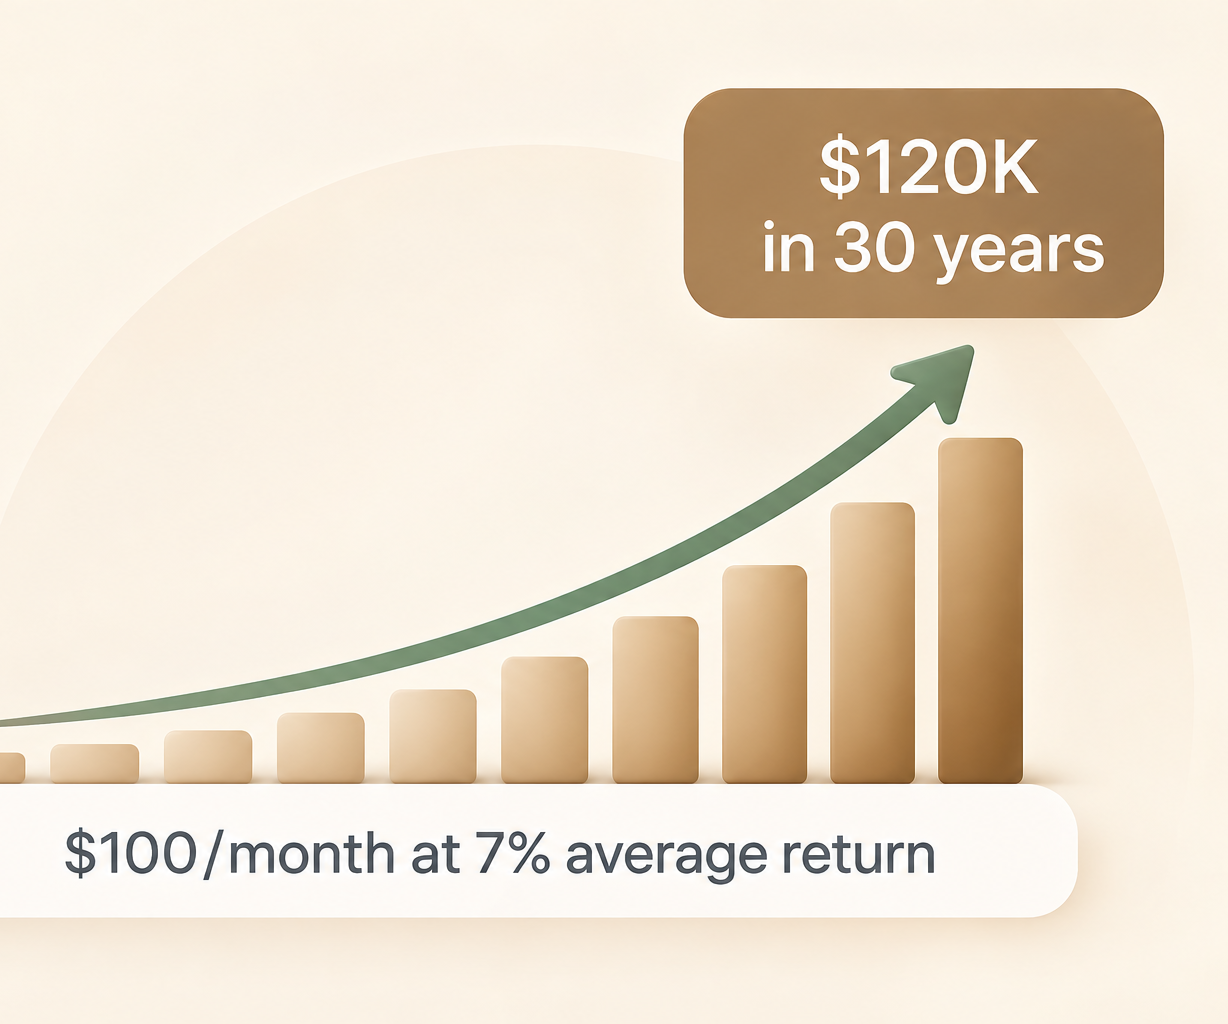
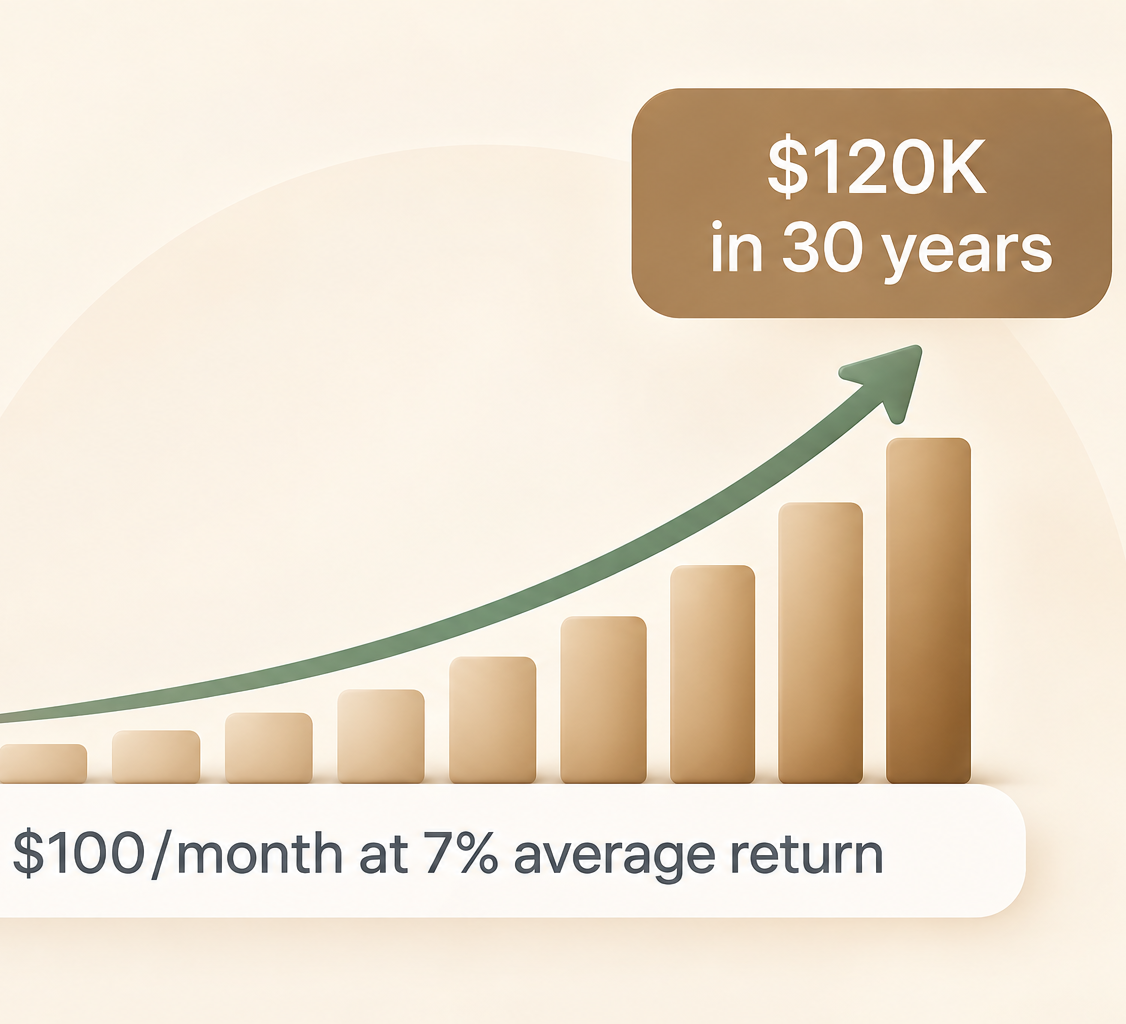
Goals: card 3 image to 1.1 aspect-ratio, recropped
Claude-Session: https://claude.ai/code/session_016SyVRyYiEWqAUGTKJNZ3MT

diff --git a/style.css b/style.css
@@ -4641,7 +4641,7 @@ input[type="date"].filter-date {
       "chips    chips";
     column-gap: 0.35rem;
   }
-  .tip-slide--invest .tip-slide-art { width: calc(100% + 1.1rem); margin-right: -1.1rem; aspect-ratio: 1.2; align-self: start; margin-top: 1.3rem; }
+  .tip-slide--invest .tip-slide-art { width: calc(100% + 1.1rem); margin-right: -1.1rem; aspect-ratio: 1.1; align-self: start; margin-top: 1.3rem; }
   .tip-slide--invest .tip-slide-art img { object-fit: cover; }
   .tip-chips { grid-area: chips; flex-wrap: nowrap; align-items: stretch; gap: 0.28rem; }
   .tip-chip { flex: 1; min-width: 0; min-height: 72px; box-sizing: border-box; padding: 0.5rem 0.3rem; gap: 0.34rem; }
